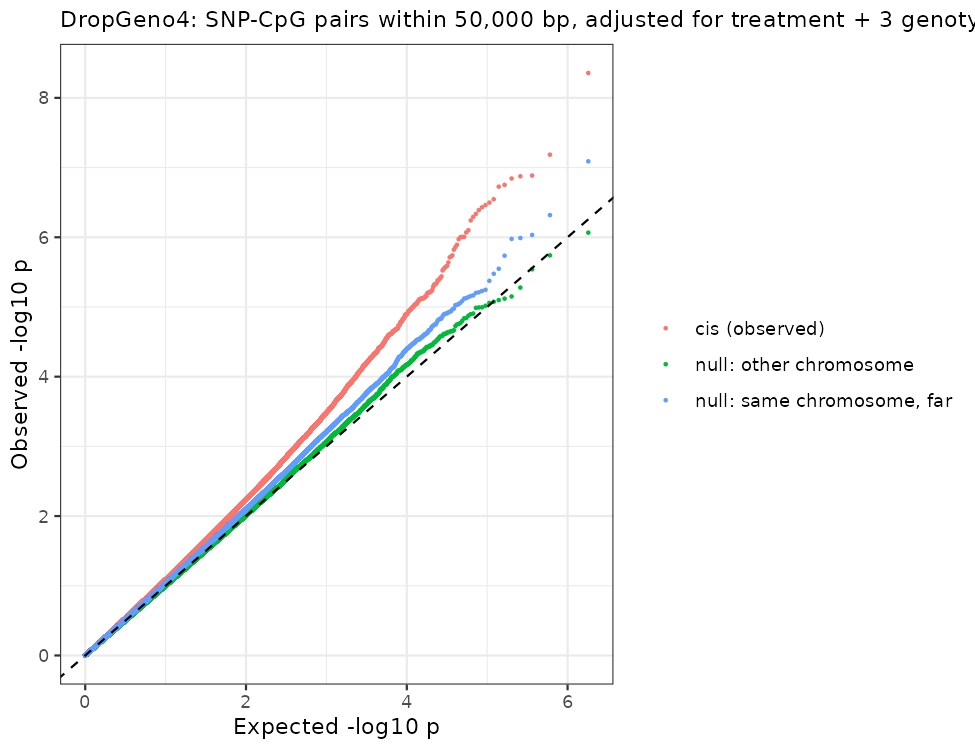
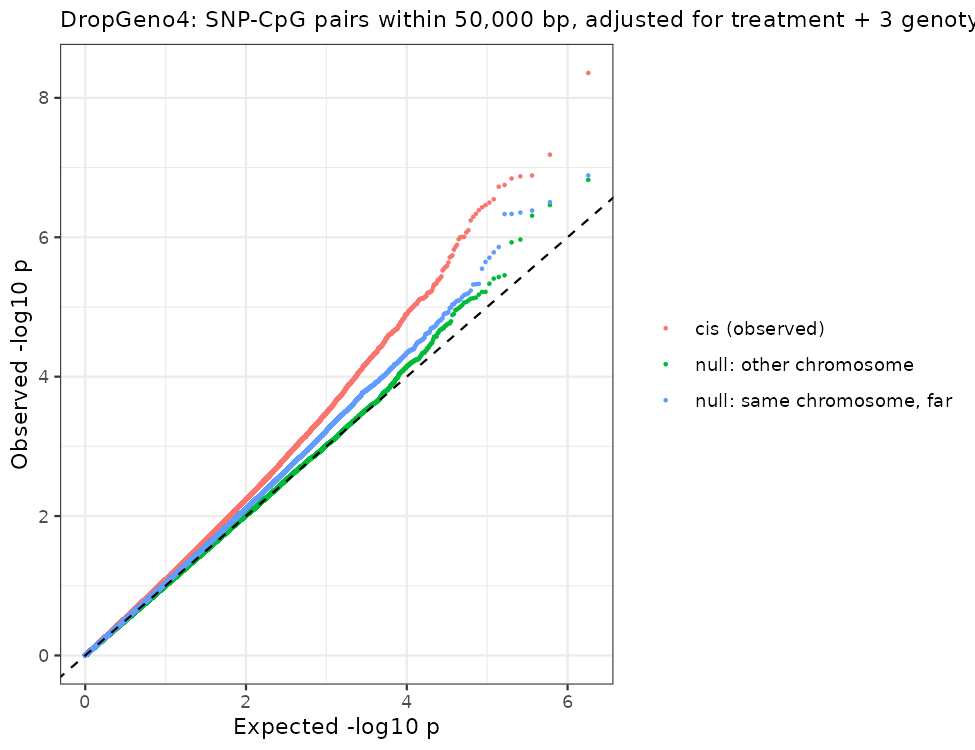
Add methylation correlation decay and local-methylation conditioning to 04.8
Methylation co-varies between CpGs out to 50-100 kb (the range of the
cis plateau; LD reaches only ~1 kb). Conditioning distant SNP-CpG pairs
on methylation within 1 kb of the SNP removes only ~15-30% of the
plateau enrichment, which is inconclusive given the noisy local proxy.

diff --git a/code/Haws/04.8-cis-genotype-plan.md b/code/Haws/04.8-cis-genotype-plan.md
@@ -99,7 +99,36 @@ r² between the genotypes of every pair of the same SNPs on the same chromosome,
 - **The flat 1.5–1.9× from 1 to 50 kb is not explained by LD.** LD at 20–50 kb (0.061) is almost the same as at 1–5 Mb (0.059), the range the same-chromosome null samples, but the methylation association is 1.6× stronger. That correction to the earlier "haplotype blocks" reading was made on 2026-10-02.
   - **More likely: methylation varies in regional blocks.** Methylation co-varies across neighbouring CpGs over tens of kb (gene-body methylation domains). One local genetic effect on a domain would then show up at every CpG in it.
   - **Other possibilities:** a regional technical effect, such as coverage or mappability that varies with local sequence, or a more complex local genetic architecture.
-- **Next check:** methylation–methylation correlation decay between CpGs (after removing treatment and genotype PCs). If methylation co-varies over tens of kb, the plateau is methylation domains rather than genetics.
+- **Checked next (below):** whether methylation co-varies over tens of kb, and whether conditioning on the methylation near the SNP removes the plateau.
+
+### Methylation correlation decay and conditioning on local methylation
+
+**Correlation decay** (`methylation-correlation-decay.csv`, `methylation-correlation-decay.png`), after removing treatment and the genotype PCs. Anchors are 20,000 random CpGs, each paired with every CpG within 100 kb. Mean correlation of methylation between CpG pairs:
+
+| Distance | 0–250 bp | 0.5–1 kb | 1–2 kb | 5–10 kb | 20–50 kb | 50–100 kb | same chr, > 1 Mb | other chr |
+|---|---|---|---|---|---|---|---|---|
+| All 24 | 0.40 | 0.18 | 0.15 | 0.11 | 0.056 | 0.040 | 0.026 | 0.025 |
+| `DropGeno4` | 0.36 | 0.14 | 0.11 | 0.067 | 0.036 | 0.025 | 0.011 | 0.011 |
+
+Methylation does vary in regional blocks. Correlation between CpGs stays above the far baseline out to 50–100 kb, which is the same range as the cis plateau and far beyond LD (about 1 kb). The small positive baseline is shared by every pair, consistent with oyster-wide differences in overall methylation level.
+
+**Conditioning test** (`cis-conditioned-on-local-methylation.csv`). For SNPs with at least one CpG within 1 kb, SNP–CpG pairs 1–50 kb apart were retested with the mean methylation of those nearby CpGs as an extra covariate, against the same-chromosome (> 1 Mb) null treated the same way:
+
+| Sample set | SNPs | Pairs | Enrichment, unconditioned | Enrichment, conditioned on methylation within 1 kb |
+|---|---|---|---|---|
+| All 24 | 3,321 | 376k | 1.45× | 1.37× |
+| `DropGeno4` | 4,060 | 516k | 1.51× | 1.35× |
+
+- **Conditioning on methylation near the SNP removes only about 15–30% of the excess.** Most of the plateau remains.
+- **That doesn't rule out the domain explanation.** The local proxy is a mean of a few noisy CpGs measured in 24 oysters: CpGs within 250 bp correlate only about 0.4 with each other. So conditioning on it removes only part of a domain-wide effect. A domain effect anchored elsewhere in the domain, not at the SNP, also wouldn't be captured.
+
+**Where this leaves the plateau.** Three things are now established:
+- Methylation co-varies over the same range as the plateau.
+- Genotype linkage doesn't extend that far.
+- Conditioning on the methylation right at the SNP leaves most of the plateau.
+
+The most consistent reading is that a SNP's local effect (or an effect of something tightly linked to it) reaches methylation across a regional domain, and the local proxy is too noisy to absorb it. **An oyster-specific alternative is structural variation.** *C. gigas* has extensive presence/absence and hemizygous regions spanning kb to tens of kb. A SNP inside such a region could tag its copy-number state. That would change both the apparent genotype and the methylation and coverage of nearby CpGs, without ordinary LD.
+- **A cheap test:** does SNP genotype predict the **coverage** of nearby CpGs, beyond the trans and far nulls? If it does, structural variation is a likely contributor.
 
 **How this connects to 04.7:** part of the genotype–methylation link (04.7) is local, a sharp effect within about 1 kb that probably spreads across regional methylation domains. The rest is chromosome- and genome-scale relatedness. Methylation differences between these oysters partly follow local genotype.
 

diff --git a/code/Haws/04-methylation-summary.md b/code/Haws/04-methylation-summary.md
@@ -45,7 +45,7 @@ With 6 oysters per ploidy × pH group, **no ploidy or pH effect on methylation c
 
 **B. Close out the planned tests, then stop.** The exon, intron, upstream and TE region sets are built but not tested. Run each once against permutations so the region analysis is complete. Don't widen the parameter grid: about 200 settings have already been tried, and more searching mostly adds chances for false positives. Drop shrinkMN, DSS smoothing and group-blind segmentation unless a reviewer asks.
 
-**C. Reframe around genetics (more ambitious).** **Started ([04.8-cis-genotype-plan.md](04.8-cis-genotype-plan.md)):** methylation is linked to the genotype of SNPs within 50 kb, beyond genome-wide relatedness. Over a same-chromosome, > 1 Mb null, enrichment is about 1.7× overall, 2.8× within 250 bp, and 1.9× for gene bodies, with a similar pattern without the outliers. LD decay shows that linkage between SNPs is short (clearly elevated r² only within ~1 kb), plus weak chromosome-scale relatedness. So the peak within 1 kb is consistent with local (cis) control of methylation. The flat ~1.6× out to 50 kb isn't explained by LD, and is more likely regional methylation domains. Methylation–methylation correlation decay is the next check. The rho = 0.86 result suggests SNPs that drive nearby methylation (cis-mQTL-like) or methylation that follows family. With 24 oysters this is descriptive only. It could seed a follow-up proposal or connect to other lab datasets that have genotypes.
+**C. Reframe around genetics (more ambitious).** **Started ([04.8-cis-genotype-plan.md](04.8-cis-genotype-plan.md)):** methylation is linked to the genotype of SNPs within 50 kb, beyond genome-wide relatedness. Over a same-chromosome, > 1 Mb null, enrichment is about 1.7× overall, 2.8× within 250 bp, and 1.9× for gene bodies, with a similar pattern without the outliers. LD decay shows that linkage between SNPs is short (clearly elevated r² only within ~1 kb), plus weak chromosome-scale relatedness. So the peak within 1 kb is consistent with local (cis) control of methylation. The flat ~1.6× out to 50 kb isn't explained by LD. Methylation does co-vary over the same range (correlation above baseline out to 50–100 kb), which supports regional domains. But conditioning on the methylation within 1 kb of the SNP removes only about 15–30% of the plateau. That's inconclusive, given how noisy the local proxy is. Structural variation (presence/absence or hemizygous regions) is the main alternative, and a SNP-vs-nearby-coverage test would check it. The rho = 0.86 result suggests SNPs that drive nearby methylation (cis-mQTL-like) or methylation that follows family. With 24 oysters this is descriptive only. It could seed a follow-up proposal or connect to other lab datasets that have genotypes.
 
 **D. Get more power (only if the biology needs a positive answer).** More oysters per cell, or a targeted assay on candidate genes, rather than more analysis of this dataset. Any new sampling should balance families across treatments. If RNA-seq exists for these oysters, testing expression against genotype is a cheaper next step.
 
